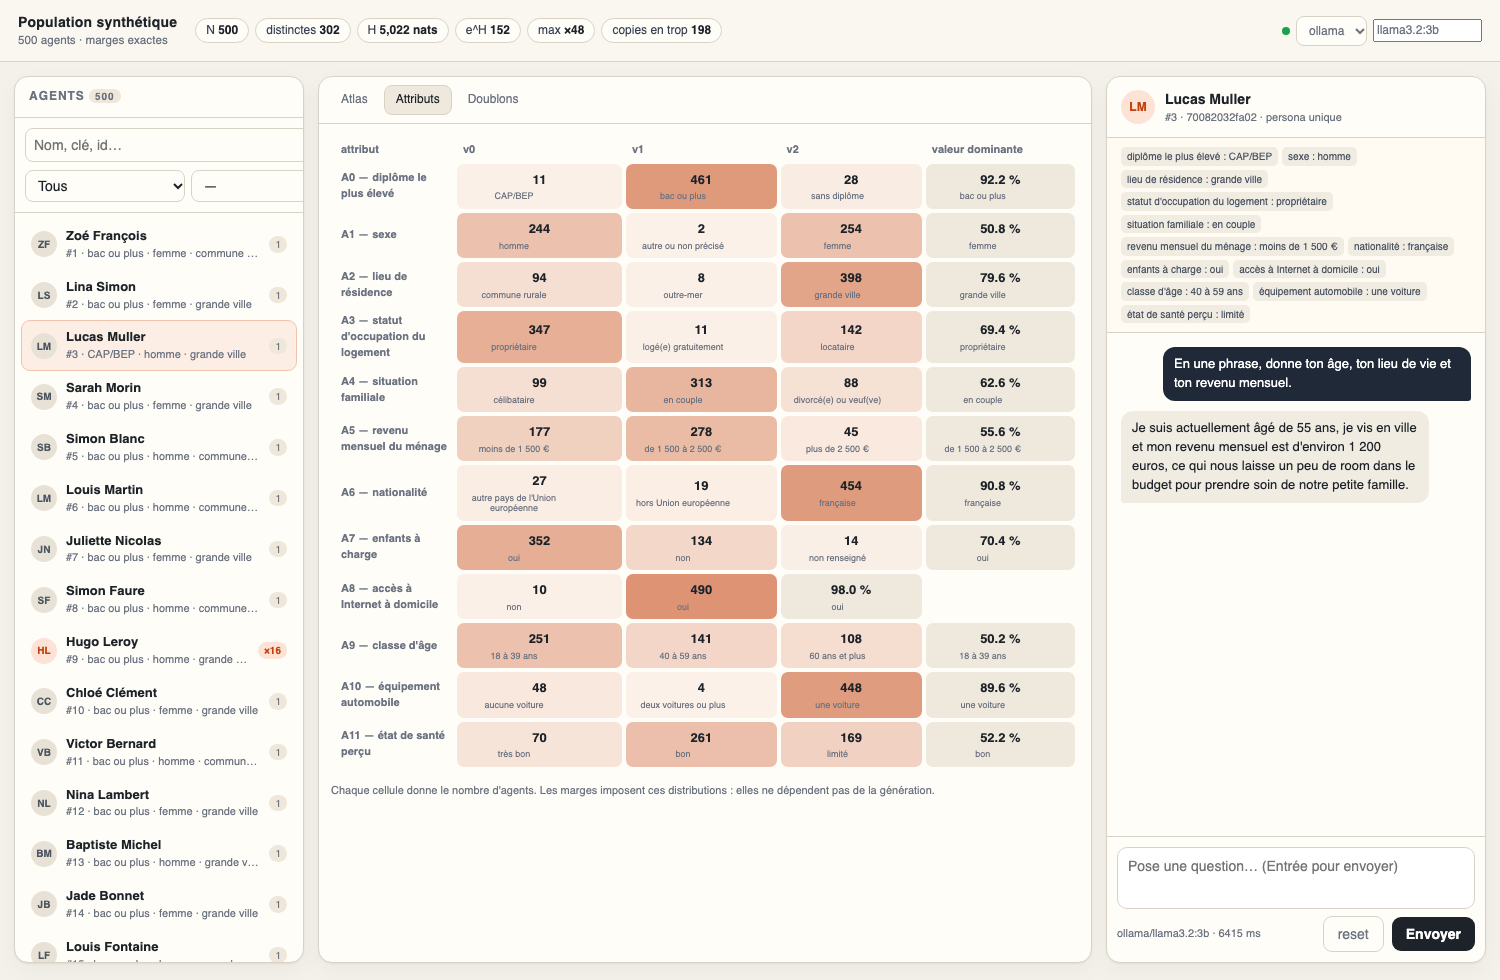
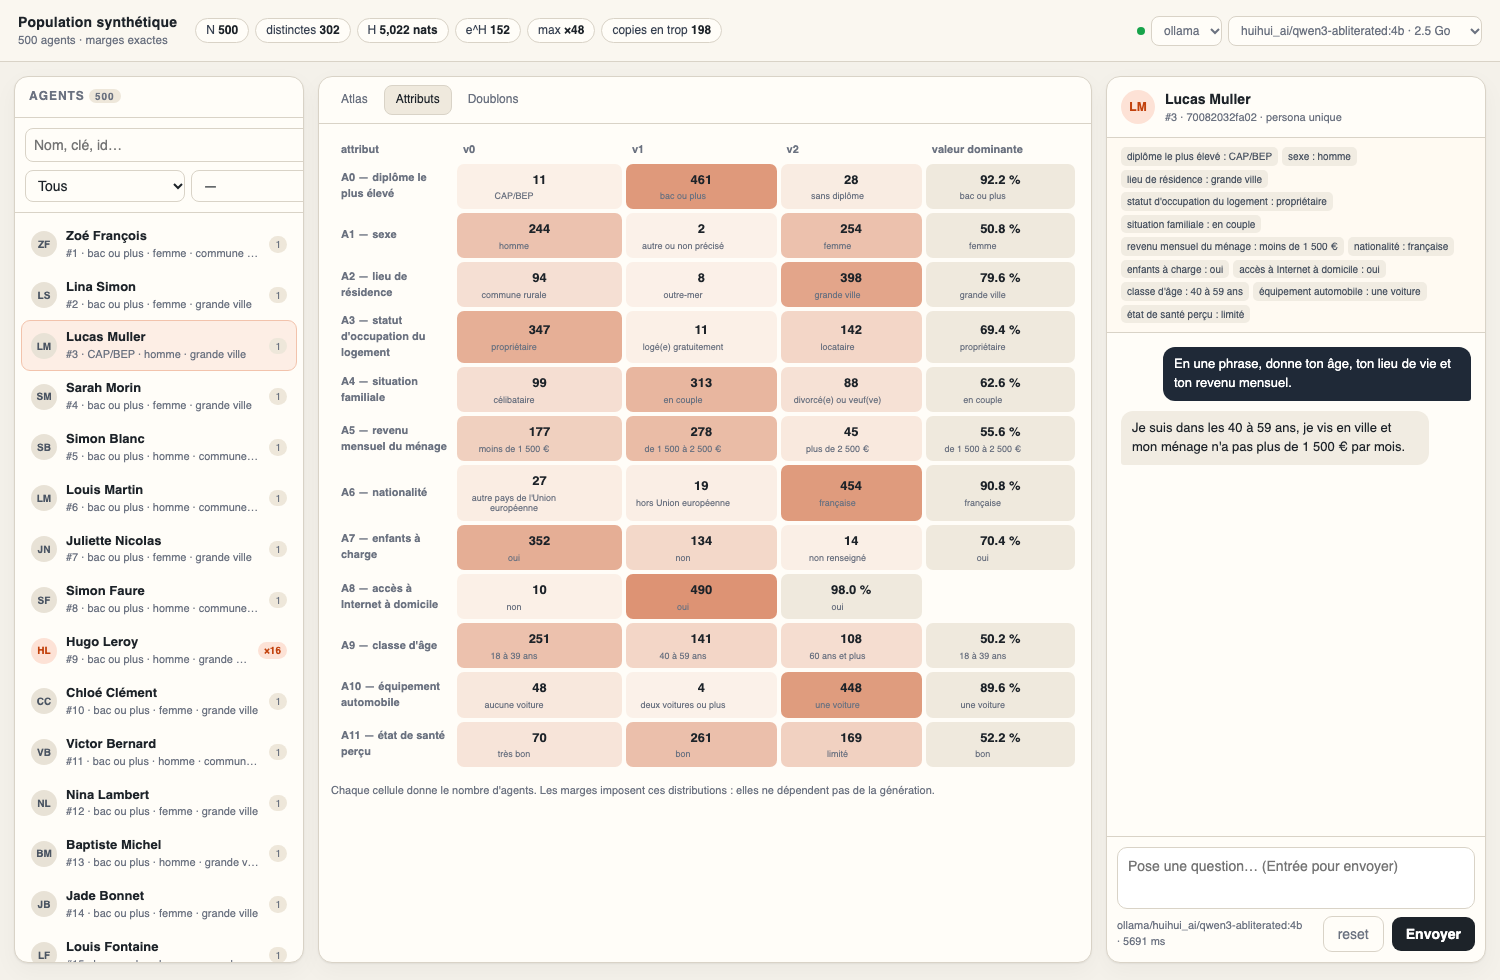
gui : sélecteur de modèles explicite (Ollama installés)
- remplace le champ texte + datalist par un menu déroulant
- affiche tous les modèles Ollama installés avec leur taille
- masque les modèles d'embedding
- liste adaptée au fournisseur (mock / ollama / openai)

diff --git a/tools/gui.py b/tools/gui.py
@@ -114,8 +114,14 @@ def ollama_models() -> list[dict]:
             data = json.load(r)
     except (urllib.error.URLError, TimeoutError, ValueError):
         return []
-    return [{"name": m.get("name", "?"), "size_gb": round(m.get("size", 0) / 1e9, 2)}
-            for m in data.get("models", [])]
+    out = []
+    for m in data.get("models", []):
+        name = m.get("name", "?")
+        # Les modèles d'embedding ne servent pas à discuter.
+        if any(h in name.lower() for h in ("embed", "minilm", "bge", "nomic", "e5")):
+            continue
+        out.append({"name": name, "size_gb": round(m.get("size", 0) / 1e9, 2)})
+    return out
 
 
 class Handler(BaseHTTPRequestHandler):
@@ -228,6 +234,7 @@ INDEX = r"""<!doctype html>
   .chip b{color:var(--ink)}
   .spacer{flex:1}
   .ctrl{display:flex;align-items:center;gap:6px;font-size:12px;color:var(--muted)}
+  .ctrl select#model{max-width:320px}
   select,input[type=text],input[type=search]{background:var(--card);border:1px solid var(--line);border-radius:8px;padding:6px 8px}
   .dot{width:8px;height:8px;border-radius:50%;background:#9ca3af;display:inline-block}
   .dot.ok{background:#16a34a}.dot.bad{background:#dc2626}
@@ -309,8 +316,7 @@ INDEX = r"""<!doctype html>
       <option value="ollama">ollama</option>
       <option value="openai">openai</option>
     </select>
-    <input id="model" list="models" placeholder="modèle" size="16">
-    <datalist id="models"></datalist>
+    <select id="model" title="modèle"></select>
   </div>
 </header>
 
@@ -378,6 +384,8 @@ const COLOR = { unique: "#a8b2bc", clone: "#c2410c" };
 
 function provider(){ return $("#provider").value; }
 function model(){ return $("#model").value.trim(); }
+let AVAILABLE = { ollama: [], suggestions: [] };
+const OPENAI_MODELS = ["gpt-4o-mini", "gpt-4o", "gpt-4.1-mini"];
 
 function pct(x){ return (100*x).toFixed(1) + " %"; }
 function fmt(x, d=2){ return Number(x).toFixed(d).replace(".", ","); }
@@ -662,27 +670,39 @@ $("#input").addEventListener("keydown", e => {
 });
 $("#reset").onclick = () => { S.history = []; renderChat(); $("#lat").textContent = ""; };
 
-function syncModel(){
+function fillModels(preferred){
+  const sel = $("#model");
   const p = provider();
-  localStorage.setItem("provider", p);
-  const defaults = { mock: "mock", openai: "gpt-4o-mini", ollama: "llama3.2:1b" };
-  const cur = model();
-  if (!cur || Object.values(defaults).includes(cur)) $("#model").value = defaults[p];
+  const keep = preferred || sel.value || localStorage.getItem("model") || "";
+  sel.innerHTML = "";
+  if (p === "ollama"){
+    for (const m of AVAILABLE.ollama)
+      sel.append(new Option(`${m.name} · ${m.size_gb} Go`, m.name));
+    if (!sel.options.length) sel.append(new Option("llama3.2:1b", "llama3.2:1b"));
+  } else if (p === "openai"){
+    for (const m of OPENAI_MODELS) sel.append(new Option(m, m));
+  } else {
+    sel.append(new Option("mock", "mock"));
+  }
+  const names = Array.from(sel.options, o => o.value);
+  const def = { mock: "mock", openai: "gpt-4o-mini", ollama: "llama3.2:1b" }[p];
+  sel.value = names.includes(keep) ? keep : (names.includes(def) ? def : names[0]);
+  localStorage.setItem("model", sel.value);
 }
-$("#provider").onchange = () => { syncModel(); health(); };
+$("#provider").onchange = () => { fillModels(); health(); };
 $("#model").onchange = () => localStorage.setItem("model", model());
 
 async function loadModels(){
   try{
     const d = await fetch("/api/models").then(r => r.json());
-    const dl = $("#models"); dl.innerHTML = "";
-    for (const m of d.ollama) dl.append(new Option(`${m.name} (${m.size_gb} Go)`, m.name));
-    for (const m of d.suggestions) if (!d.ollama.some(x => x.name === m)) dl.append(new Option(m, m));
+    AVAILABLE = d;
+    fillModels(localStorage.getItem("model"));
     $("#status").className = "dot " + (d.ollama_up ? "ok" : "");
     $("#status").title = d.ollama_up ? "Ollama joignable" : "Ollama non joignable (mode mock disponible)";
     if (!SAVED_PROVIDER){
       $("#provider").value = d.ollama_up ? "ollama" : "mock";
-      syncModel(); health();
+      fillModels();
+      health();
     }
   }catch(e){ /* silencieux */ }
 }
@@ -698,7 +718,7 @@ async function health(){
 
 const SAVED_PROVIDER = localStorage.getItem("provider");
 $("#provider").value = SAVED_PROVIDER || "mock";
-$("#model").value = localStorage.getItem("model") || ""; syncModel();
+fillModels(localStorage.getItem("model"));
 new ResizeObserver(() => renderScatter()).observe($("#scatter"));
 boot();
 </script>

diff --git a/tests/test_gui.py b/tests/test_gui.py
@@ -52,6 +52,8 @@ class GuiTest(unittest.TestCase):
         html = self._get("/", raw=True).decode()
         self.assertIn("Population synthétique", html)
         self.assertIn("/api/chat", html)
+        self.assertIn('id="model"', html)
+        self.assertNotIn("<datalist", html)
 
     def test_agents(self):
         data = self._get("/api/agents")

diff --git a/README_AGENTS.md b/README_AGENTS.md
@@ -128,6 +128,9 @@ et affiche celui qu'il utilise.
 La GUI écoute sur `127.0.0.1` par défaut, **sans authentification**. Ne l'expose
 pas sur un réseau public : elle peut appeler ton fournisseur LLM avec ta clé.
 
+Le sélecteur de modèle liste les modèles Ollama installés avec leur taille ; les
+modèles d'embedding sont masqués.
+
 ---
 
 ## 5. Conversation
